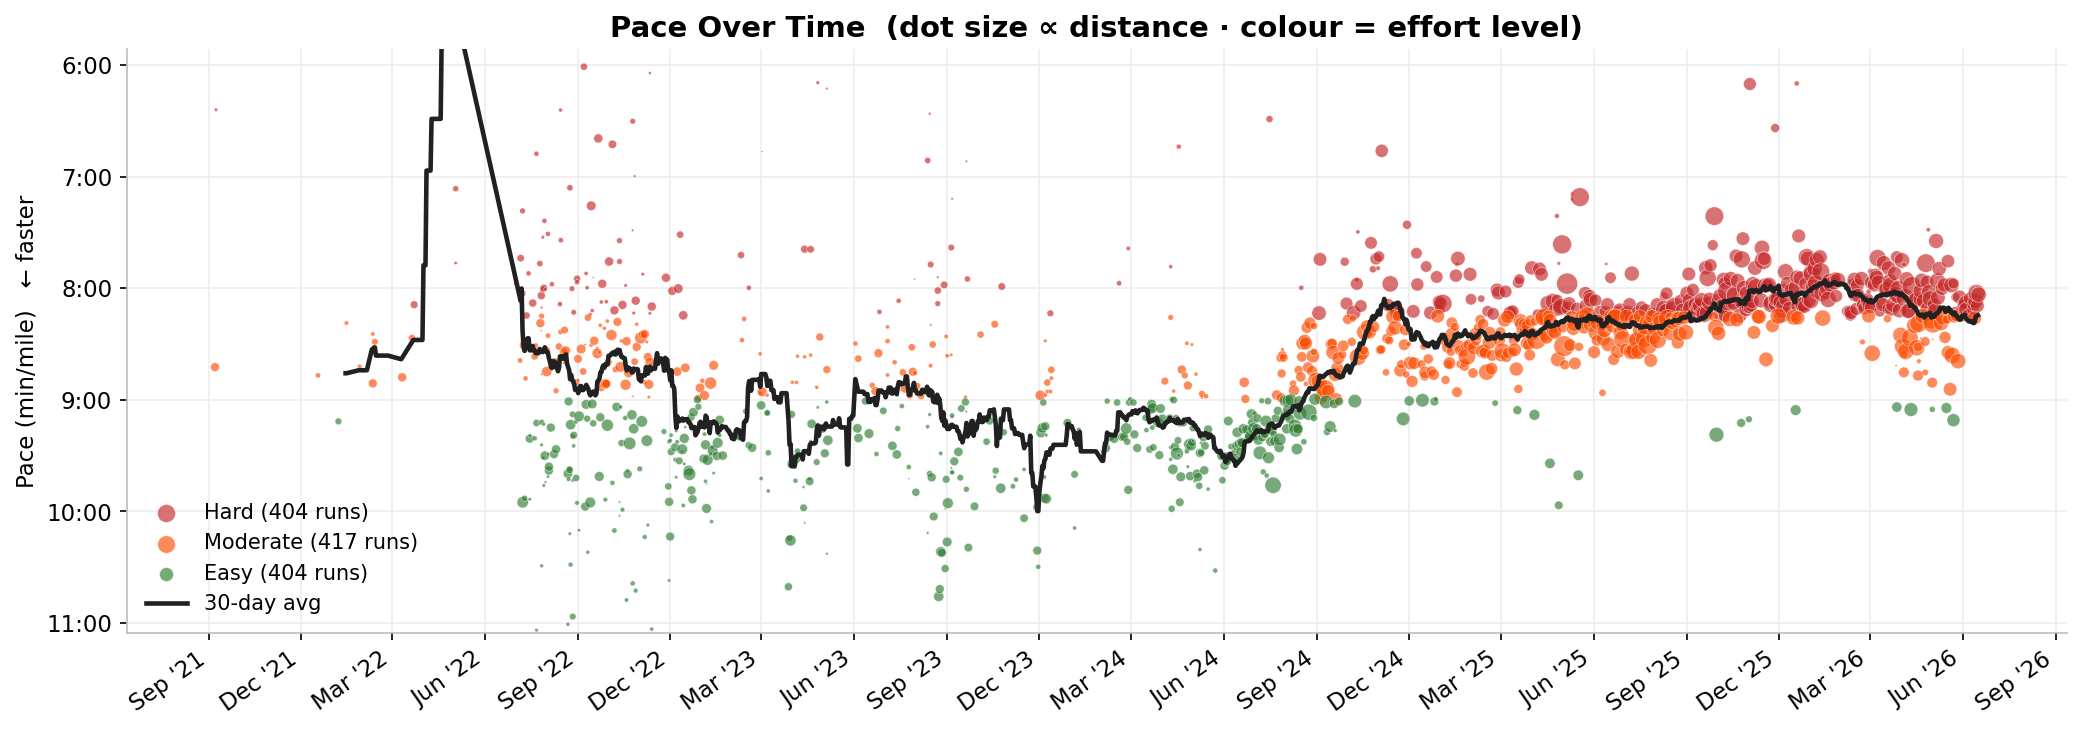
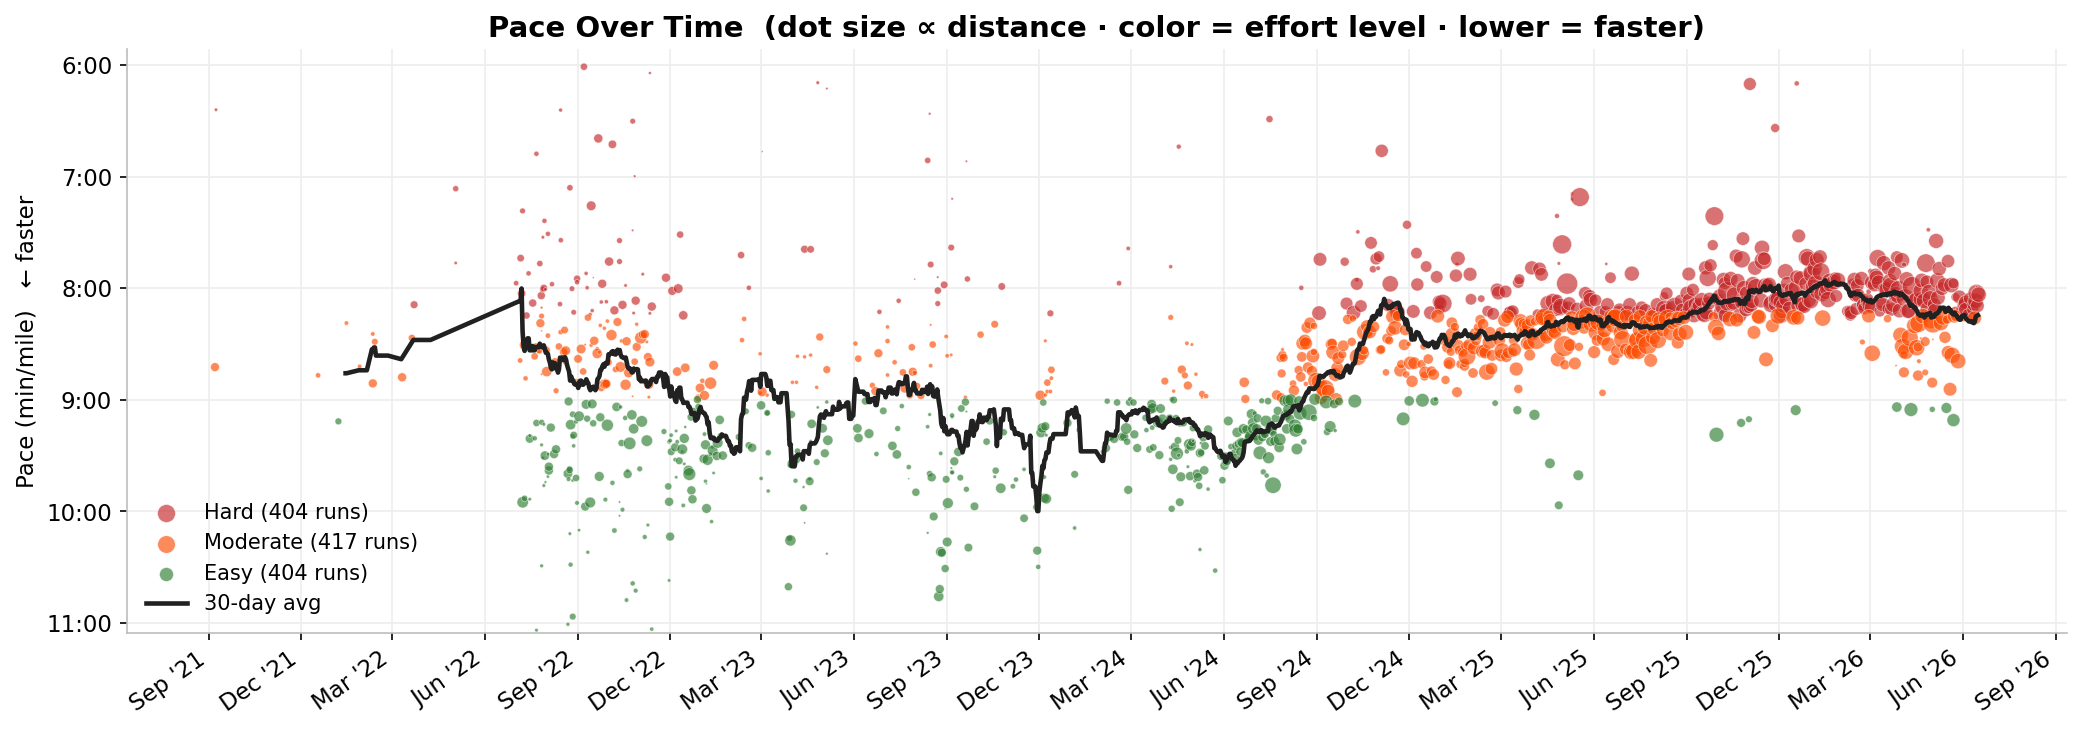
Fix rolling average spike from outlier runs, fix remaining British spellings
- Clip data used for 30-day rolling average to 1st-99th percentile so bad
  pace entries can't spike the trend line
- Fix capital-C 'Colour' remaining in HTML caption and chart title

diff --git a/index.html b/index.html
@@ -470,7 +470,7 @@
       <img src="figures/pace_over_time.png" alt="All runs colored by effort over time" loading="lazy" />
       <div class="cap">
         <strong>All 1,225 runs</strong>
-        <span>Colour = effort level · dot size ∝ distance · line = 30-day rolling average · y-axis inverted (lower = faster)</span>
+        <span>Color = effort level · dot size ∝ distance · line = 30-day rolling average · y-axis inverted (lower = faster)</span>
       </div>
     </div>
   </section>

diff --git a/src/visualize.py b/src/visualize.py
@@ -191,19 +191,20 @@ def plot_pace_over_time(runs: pd.DataFrame) -> None:
             label=f"{effort} ({len(subset)} runs)", zorder=3,
         )
 
-    # 30-day rolling average — resample to daily first to handle gaps
-    pace_series = runs.set_index("date")["pace_min_per_mile"].resample("D").mean()
+    p_lo = runs["pace_min_per_mile"].quantile(0.01)
+    p_hi = runs["pace_min_per_mile"].quantile(0.99)
+
+    # 30-day rolling average — exclude outliers so bad data can't spike the trend
+    clipped = runs[runs["pace_min_per_mile"].between(p_lo, p_hi)]
+    pace_series = clipped.set_index("date")["pace_min_per_mile"].resample("D").mean()
     smooth = pace_series.rolling(30, min_periods=3).mean().dropna()
     if len(smooth) > 2:
         ax.plot(smooth.index, smooth, color=DARK, linewidth=2.2,
                 label="30-day avg", zorder=4)
-
-    p_lo = runs["pace_min_per_mile"].quantile(0.01)
-    p_hi = runs["pace_min_per_mile"].quantile(0.99)
     ax.invert_yaxis()
     ax.set_ylim(p_hi + 0.3, p_lo - 0.3)
     ax.yaxis.set_major_formatter(mticker.FuncFormatter(_pace_fmt))
-    ax.set_title("Pace Over Time  (dot size ∝ distance · color = effort level)")
+    ax.set_title("Pace Over Time  (dot size ∝ distance · color = effort level · lower = faster)")
     ax.set_ylabel("Pace (min/mile)   ← faster")
     _date_axis(ax)
     ax.legend(markerscale=1.2)